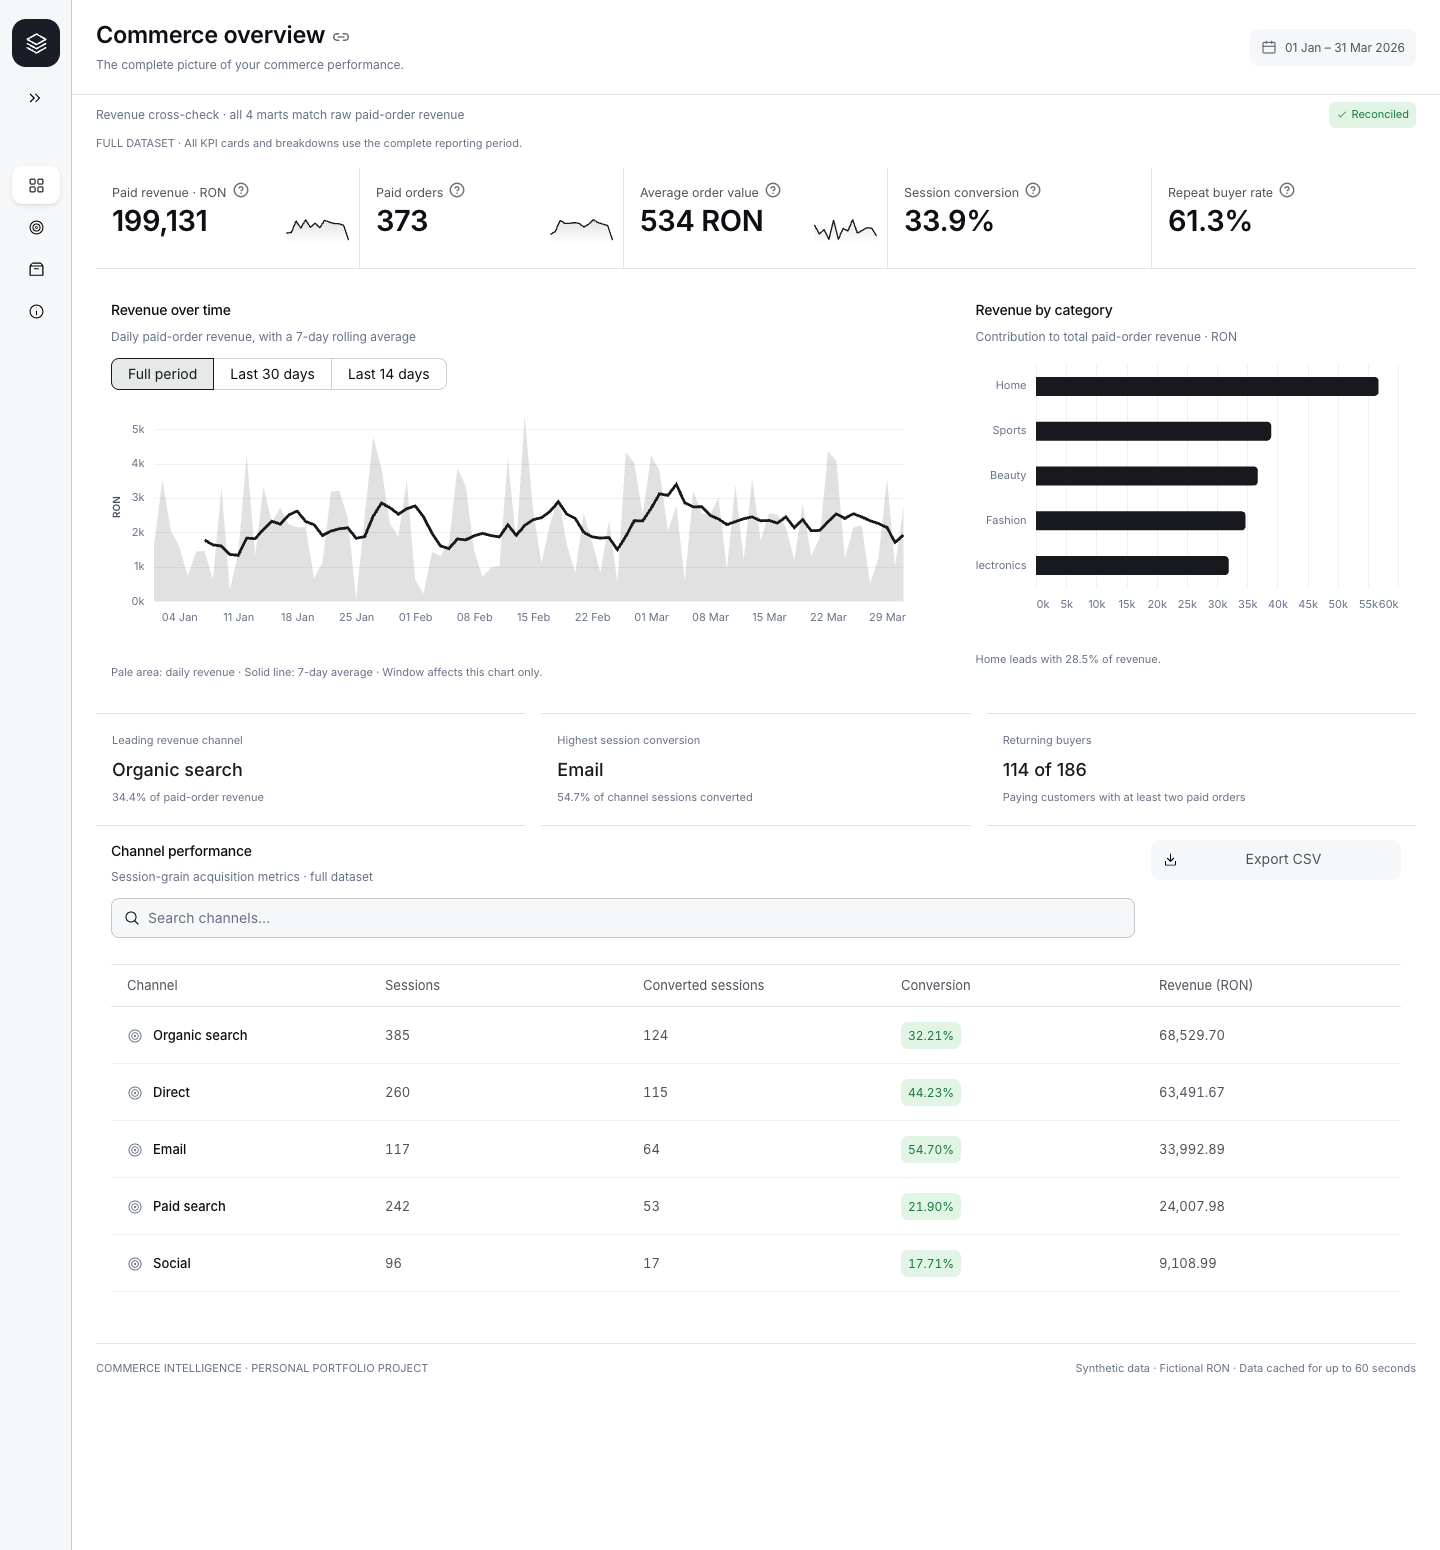
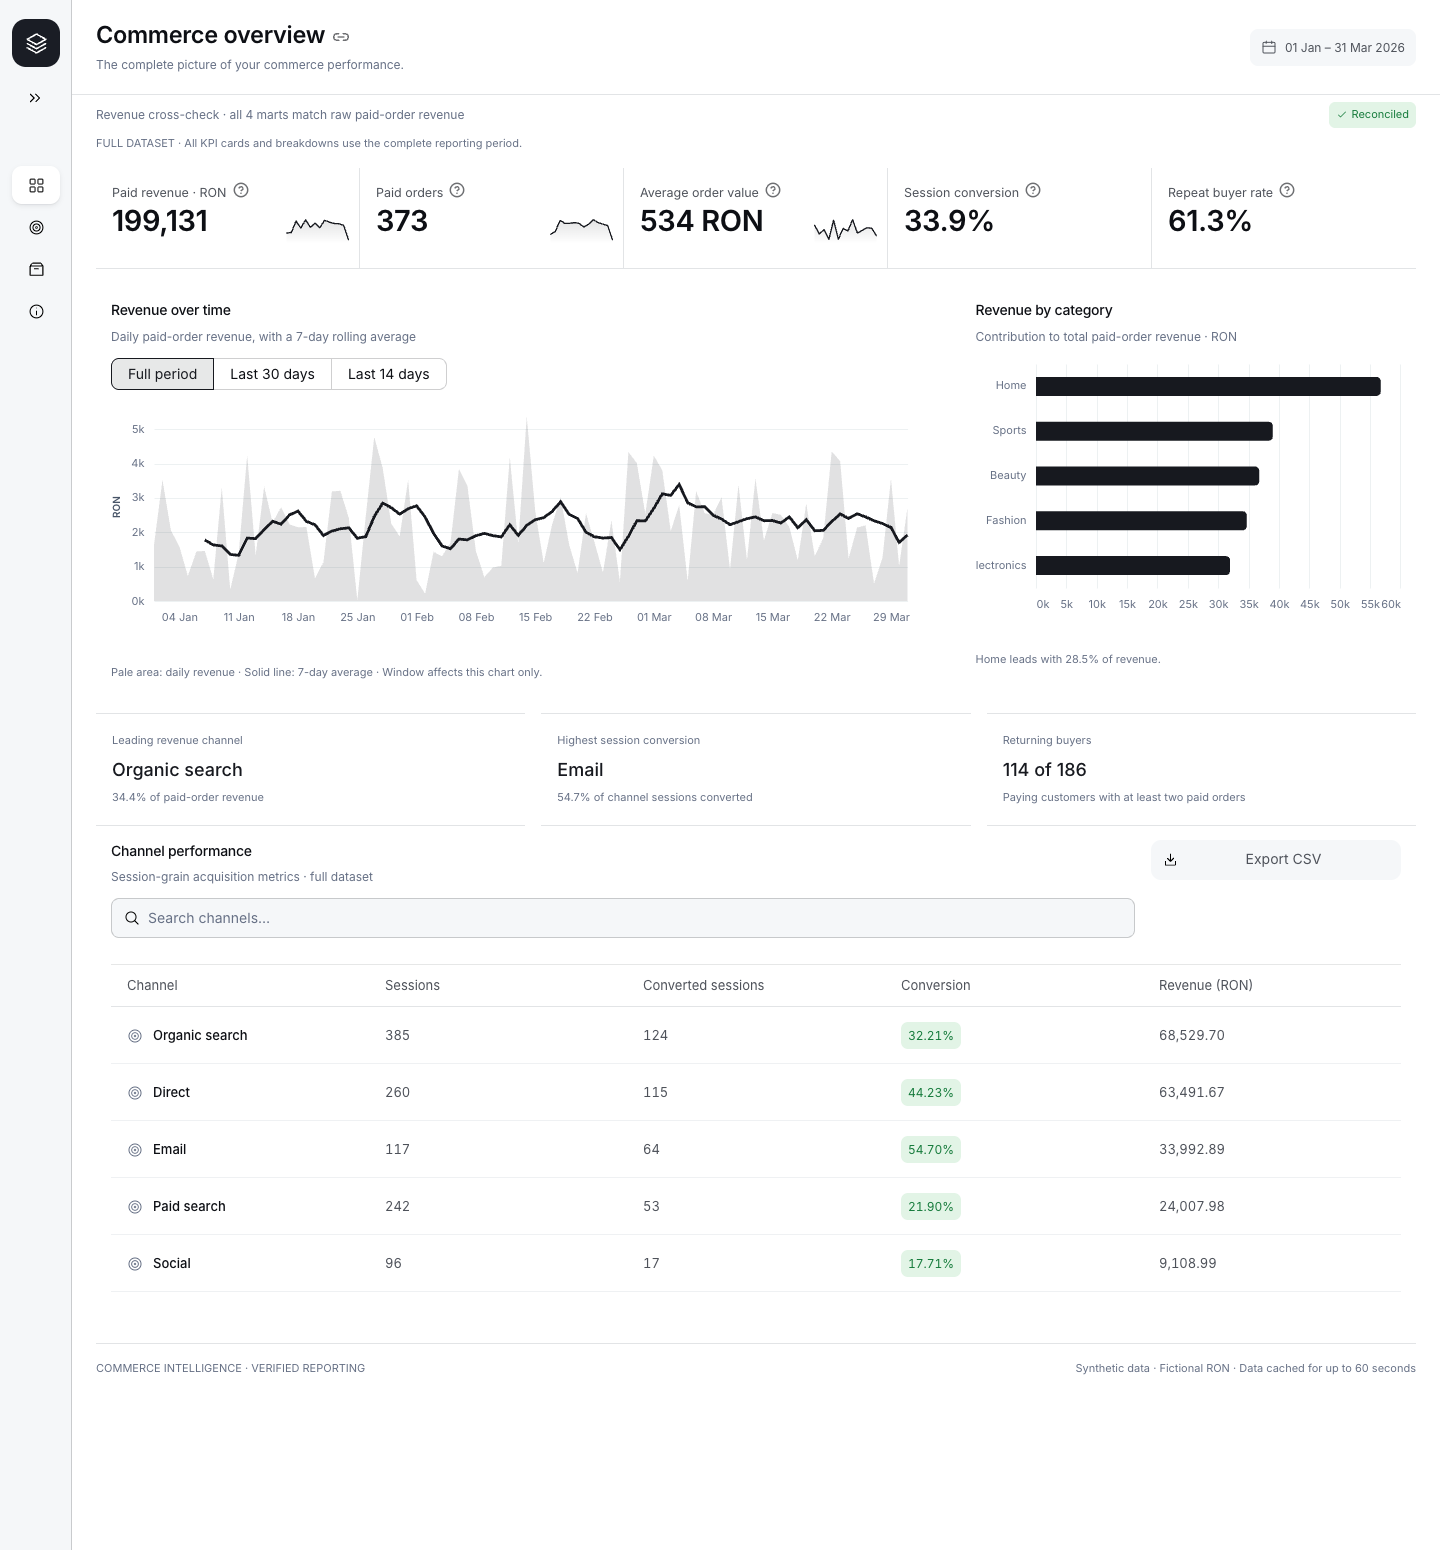
Use product-focused technical documentation and reporting labels

diff --git a/demo/index.html b/demo/index.html
@@ -1,8 +1,8 @@
 <!doctype html>
-<html lang="en"><head><meta charset="utf-8"><meta name="viewport" content="width=device-width,initial-scale=1"><meta name="description" content="Commerce Intelligence: an analytics engineering portfolio with tested Python, PostgreSQL and dbt reporting."><title>Commerce Intelligence · Portfolio demo</title><link rel="stylesheet" href="style.css"></head>
+<html lang="en"><head><meta charset="utf-8"><meta name="viewport" content="width=device-width,initial-scale=1"><meta name="description" content="Commerce Intelligence: a commerce analytics system with tested Python, PostgreSQL and dbt reporting."><title>Commerce Intelligence · Reporting demo</title><link rel="stylesheet" href="style.css"></head>
 <body>
-<aside id="sidebar"><a class="brand" href="#overview"><span class="brand-mark" data-icon="layers"></span><span class="brand-text"><strong>Commerce Studio</strong><small>Analytics workspace</small></span></a><button id="toggle" aria-label="Collapse navigation" aria-expanded="true" title="Toggle navigation"><span data-icon="collapse"></span></button><p class="section-label">WORKSPACE</p><nav id="nav" aria-label="Workspace"></nav><div class="side-context"><strong>Portfolio demo</strong><p>Synthetic commerce data<br>Fictional RON · UTC</p><a id="source" href="https://github.com/dutuvalentin16-dev/commerce-intelligence" target="_blank" rel="noopener">View source code ↗</a></div></aside>
+<aside id="sidebar"><a class="brand" href="#overview"><span class="brand-mark" data-icon="layers"></span><span class="brand-text"><strong>Commerce Studio</strong><small>Analytics workspace</small></span></a><button id="toggle" aria-label="Collapse navigation" aria-expanded="true" title="Toggle navigation"><span data-icon="collapse"></span></button><p class="section-label">WORKSPACE</p><nav id="nav" aria-label="Workspace"></nav><div class="side-context"><strong>Reporting demo</strong><p>Synthetic commerce data<br>Fictional RON · UTC</p><a id="source" href="https://github.com/dutuvalentin16-dev/commerce-intelligence" target="_blank" rel="noopener">View source code ↗</a></div></aside>
 <main><header><div><h1 id="title">Commerce overview</h1><p id="subtitle">Sales, acquisition and customer behavior.</p></div><span class="date" id="period"></span></header>
 <div class="snapshot"><span>Verified reporting snapshot · Synthetic data · No live database connection</span><span id="quality" role="status">Loading verified data…</span></div>
-<section class="kpis" id="kpis" aria-label="Full dataset key metrics"></section><div id="content" aria-live="polite"></div><footer><span>COMMERCE INTELLIGENCE · PERSONAL PORTFOLIO PROJECT</span><span id="build"></span></footer><noscript>Enable JavaScript to explore the reporting snapshot. Full source and screenshots are available on GitHub.</noscript></main>
+<section class="kpis" id="kpis" aria-label="Full dataset key metrics"></section><div id="content" aria-live="polite"></div><footer><span>COMMERCE INTELLIGENCE · VERIFIED REPORTING</span><span id="build"></span></footer><noscript>Enable JavaScript to explore the reporting snapshot. Full source and screenshots are available on GitHub.</noscript></main>
 <script src="app.js" defer></script></body></html>

diff --git a/demo/app.js b/demo/app.js
@@ -137,7 +137,7 @@ function categories() {
 }
 
 function guide() {
-    return `<section class="panel guide"><h2>How this demo works</h2><p>This public demo displays a <strong>verified, read-only snapshot</strong> exported from PostgreSQL marts after dbt and independent CSV reconciliation pass. It is not connected to a live database. The full Python/PostgreSQL/dbt/Streamlit application and reproducible Docker setup are available in the public repository.</p><p><code>Synthetic CSV → Python COPY → PostgreSQL → dbt → tested marts → reporting snapshot</code></p><h2>Metric contracts</h2><ul><li>Revenue: paid item quantity × unit price; cancelled/refunded orders add zero.</li><li>AOV: paid-order revenue / paid orders.</li><li>Conversion: sessions with at least one paid order / sessions.</li><li>Repeat buyers: customers with at least two paid orders / paying customers in this dataset.</li><li>Product margin: paid quantity × (unit price − unit cost); not net profit.</li></ul><p>All KPIs cover the full dataset. Trend windows affect their chart only. Searches filter the table and exported CSV; CSV conversion values are fractions. All data and RON amounts are fictional.</p><p>No incremental ingestion, external API source, production monitoring or anomaly detection is claimed.</p><p><a href="https://github.com/dutuvalentin16-dev/commerce-intelligence/blob/main/docs/case-study.md">Read the case study ↗</a> · <a href="https://github.com/dutuvalentin16-dev/commerce-intelligence/actions">View automated validation ↗</a></p></section>`;
+    return `<section class="panel guide"><h2>How this demo works</h2><p>This public demo displays a <strong>verified, read-only snapshot</strong> exported from PostgreSQL marts after dbt and independent CSV reconciliation pass. It is not connected to a live database. The full Python/PostgreSQL/dbt/Streamlit application and reproducible Docker setup are available in the public repository.</p><p><code>Synthetic CSV → Python COPY → PostgreSQL → dbt → tested marts → reporting snapshot</code></p><h2>Metric contracts</h2><ul><li>Revenue: paid item quantity × unit price; cancelled/refunded orders add zero.</li><li>AOV: paid-order revenue / paid orders.</li><li>Conversion: sessions with at least one paid order / sessions.</li><li>Repeat buyers: customers with at least two paid orders / paying customers in this dataset.</li><li>Product margin: paid quantity × (unit price − unit cost); not net profit.</li></ul><p>All KPIs cover the full dataset. Trend windows affect their chart only. Searches filter the table and exported CSV; CSV conversion values are fractions. All data and RON amounts are fictional.</p><p>Incremental ingestion supports ordered synthetic batches; dbt models rebuild fully. External API sources, production monitoring and anomaly detection are not implemented.</p><p><a href="https://github.com/dutuvalentin16-dev/commerce-intelligence/blob/main/docs/case-study.md">Read the case study ↗</a> · <a href="https://github.com/dutuvalentin16-dev/commerce-intelligence/actions">View automated validation ↗</a></p></section>`;
 }
 
 function csvDownload(rows, filename) {

diff --git a/dashboard/app.py b/dashboard/app.py
@@ -1,4 +1,4 @@
-"""Portfolio reporting workspace backed by tested dbt analytics marts."""
+"""Commerce reporting workspace backed by tested dbt analytics marts."""
 from __future__ import annotations
 
 import os
@@ -143,7 +143,7 @@ with st.sidebar:
         query.clear()
         st.rerun()
     st.markdown('<div class="sidebar-footer"><div class="sidebar-avatar">CI</div><div>'
-                '<strong>Portfolio workspace</strong><p>Commerce Intelligence Platform</p></div></div>', unsafe_allow_html=True)
+                '<strong>Reporting workspace</strong><p>Commerce Intelligence Platform</p></div></div>', unsafe_allow_html=True)
 
 try:
     daily = query("SELECT * FROM analytics.mart_daily_sales ORDER BY order_date")
@@ -322,7 +322,7 @@ if view == "Metric guide":
                     "not lifetime retention. Dates use UTC; revenue is grouped by order date, sessions by session date.")
         st.markdown("**Limitations:** synthetic data and fictional RON. Cancelled and refunded orders contribute zero. "
                     "No partial refund, tax or shipping accounting. Product margin is not net profit. "
-                    "No external source, incremental ingestion or anomaly detection has been implemented yet.")
+                    "Incremental ingestion supports ordered synthetic batches; dbt models rebuild fully. No external source or anomaly detection is implemented.")
 
-st.markdown('<div class="footer"><span>COMMERCE INTELLIGENCE · PERSONAL PORTFOLIO PROJECT</span>'
+st.markdown('<div class="footer"><span>COMMERCE INTELLIGENCE · VERIFIED REPORTING</span>'
             '<span>Synthetic data · Fictional RON · Data cached for up to 60 seconds</span></div>', unsafe_allow_html=True)

diff --git a/docs/case-study.md b/docs/case-study.md
@@ -3,15 +3,16 @@
 ## Business question
 
 How can sales, acquisition and customer reports agree on the same revenue definition?
-This personal project models a small fictional ecommerce business. The goal is reliable
-metric computation and verifiable delivery, using synthetic data rather than employer data.
+The system models a small fictional ecommerce business. The goal is reliable
+metric computation and verifiable delivery, using deterministic synthetic data.
 
 ## Implementation
 
 Python produces a seeded dataset and loads five CSV tables into PostgreSQL using COPY.
 All replacement loads run in one transaction. PostgreSQL constraints reject invalid keys,
-statuses, quantities and prices. Five dbt staging views normalize the sources; one
-order-grain intermediate model sums line items; four marts report daily sales, category
+statuses, quantities and prices. Five dbt staging views normalize the sources; order and order-item facts plus current
+customer/product dimensions define the star schema. An order compatibility view feeds
+four marts reporting daily sales, category
 performance, acquisition and repeat buyers. Streamlit displays these models in four views. A browser-based public demo presents a
 validated snapshot of the same marts, deployed through GitHub Pages after CI succeeds.
 
@@ -26,11 +27,12 @@ sequence executed automatically by GitHub Actions on Ubuntu.
 - **Session grain before conversion:** pre-aggregate orders per session and use a LEFT JOIN
   from sessions, retaining sessions without a purchase.
 - **Revenue contract:** paid quantity × unit price; cancelled/refunded orders contribute
-  zero. This is a simplified portfolio definition, not full accounting.
+  zero. This is a simplified revenue definition, not full accounting.
 - **Independent verification:** compare mart results with source CSV calculations; comparing
   two marts alone can miss a shared modeling error.
-- **Atomic replacement:** practical for the small demo and straightforward to test. It is
-  explicitly not incremental ingestion and would need replacement for large mutable sources.
+- **Atomic ingestion:** full replacement and incremental UPSERT run in a single transaction.
+  Each changed order includes its complete item list; removed lines are deleted, while
+  omitted orders remain untouched. Reruns are idempotent and invalid batches roll back.
 - **Restrained UI:** local SVG icons, real-data sparklines, searchable/exportable tables,
   persistent icon navigation and documented filter scope. The UI exposes metric provenance.
 
@@ -40,16 +42,17 @@ The seeded dataset yields 373 paid orders and 199,131.23 fictional RON of paid r
 AOV is 533.86 RON, session conversion is 33.91%, and 114 of 186 paying customers repeat.
 These values are fixture outputs, not commercial outcomes or measured improvements.
 
-Validation includes 32 dbt tests, 10 Python tests with both integration flags enabled,
+Validation includes 51 dbt tests, 19 Python tests with both integration flags enabled,
 independent CSV-to-mart reconciliation, and browser checks. Ingestion tests use isolated
 PostgreSQL databases and verify both complete rerun equality and rollback after a late COPY
-failure. Dashboard tests cover views, chart filters, searches and navigation state.
+failure, incremental updates, duplicate keys and invalid batches. Dashboard tests cover views, chart filters, searches and navigation state.
 
 ## Boundaries and next iteration
 
-The current model is staging plus aggregates, not a dimensional star schema. No external
-API, incremental loading, orchestration platform or anomaly detection is claimed.
-Next iterations should add documented facts/dimensions, a licensed public source and run
-history before introducing a deterministic anomaly system.
+The model uses two fact tables and two Type 1 dimensions, with documented grains and
+relationships. Ingestion supports full loads and ordered incremental synthetic batches.
+dbt facts and marts rebuild fully; dimensions do not retain historical versions. No external
+API, orchestration platform or anomaly detection is implemented. A licensed public source
+and persisted run history remain possible extensions.
 
 See [data contracts](data-model.md), [demo walkthrough](demo-guide.md). Screenshots are in [the README](../README.md).

diff --git a/docs/demo-guide.md b/docs/demo-guide.md
@@ -1,4 +1,4 @@
-# Reproducible demo and interview walkthrough
+# Reproducible demo and technical walkthrough
 
 ## Start the demo
 
@@ -13,8 +13,7 @@ make demo
 make dashboard
 ```
 
-On the original development machine use `source .venv311/bin/activate` instead of creating a
-new environment. On systems without Make use the explicit commands in the README.
+On systems without Make use the explicit commands in the README.
 `make demo` replaces the local demo raw data, builds models, runs dbt tests, reconciles metrics
 and executes all Python integration tests. It stops on an error. Dashboard: localhost:8501.
 Use `make verify` to recheck a built default demo; `make down` stops PostgreSQL and preserves
@@ -23,24 +22,24 @@ its data volume. Never point this demo workflow at a production database.
 ## Ten-minute walkthrough
 
 1. **Problem and scope (1 min):** consistent revenue and conversion across reports. Synthetic
-   ecommerce data, personal AI-assisted project, no claimed business improvement.
+   ecommerce data and reproducible fixture outputs, without measured commercial outcomes.
 2. **Architecture (2 min):** trace CSV → transactional COPY → raw constraints → staging →
-   order enrichment → marts → dashboard. Explain each layer's responsibility.
-3. **SQL (2 min):** open `int_orders_enriched.sql` and `mart_channel_performance.sql`.
+   order/item facts and customer/product dimensions → marts → dashboard. Explain each layer's responsibility.
+3. **SQL (2 min):** open `fct_orders.sql`, `int_orders_enriched.sql` and `mart_channel_performance.sql`.
    Explain grain, SUM, GROUP BY, LEFT JOIN, COALESCE and NULLIF. Identify why direct
    session-to-item joins would overcount sessions.
 4. **Reliability (2 min):** show CI and the isolated-database tests. Explain what happens
    when quantity = 0 in the last CSV: the entire transaction rolls back.
 5. **Reporting (2 min):** switch views, change the trend window, collapse to the icon rail,
    search a channel and export its CSV. Explain why the KPI cards do not change.
-6. **Trade-offs (1 min):** full reload, simplified refunds and synthetic data; describe how
-   incremental processing and dimensional models would change the implementation.
+6. **Trade-offs (1 min):** full and incremental ingestion, simplified refunds and synthetic data.
+   Explain complete item snapshots, Type 1 dimensions and full dbt rebuilds.
 
-## Before an interview
+## Inspecting correctness
 
-Practice the walkthrough yourself. Be able to calculate revenue for three orders from the
-CSV, explain each join, locate one failing test, and describe which code was AI-assisted.
-A successful automated run is implementation evidence, not a substitute for these skills.
+Calculate revenue for three orders directly from the CSV and trace the corresponding fact
+and mart rows. Inspect join cardinality, rerun an incremental batch, and verify that an
+invalid quantity rolls back the entire load. Compare source calculations with mart totals.
 
 ## Sharing
 

diff --git a/README.md b/README.md
@@ -1,6 +1,6 @@
 # Commerce Intelligence Platform
 
-**Portfolio project · Analytics Engineering · Synthetic data only**
+**Commerce analytics · Python, PostgreSQL and dbt · Synthetic data only**
 
 [![Python and dbt checks](https://github.com/dutuvalentin16-dev/commerce-intelligence/actions/workflows/ci.yml/badge.svg)](https://github.com/dutuvalentin16-dev/commerce-intelligence/actions/workflows/ci.yml)
 
@@ -12,9 +12,9 @@ also passed on Ubuntu / Python 3.11: [verified CI run](https://github.com/dutuva
 Read the [case study](docs/case-study.md), [model contracts](docs/data-model.md),
 [10-minute demo](docs/demo-guide.md).
 
-An end-to-end ecommerce analytics pipeline built to demonstrate the skills required for a junior Data Analytics / Analytics Engineer role: Python ingestion, PostgreSQL, SQL, dbt staging and aggregate transformations, automated data tests, GitHub Actions and a Streamlit dashboard.
+An end-to-end ecommerce analytics pipeline with Python ingestion, PostgreSQL, dimensional dbt models, aggregate transformations, automated data tests, GitHub Actions and a Streamlit dashboard.
 
-> **Important:** This is a learning/portfolio project, NOT production experience, NOT real business performance, and not affiliated with any employer. All customer/order/session data are synthetic. Monetary values use fictional RON.
+> All customer, order and session data are synthetic. Monetary values use fictional RON; reported results describe the generated dataset, not actual business performance.
 
 ## Online demo and local application
 
@@ -177,7 +177,7 @@ The generator ensures a single order at most per session in its sample data, but
 
 ## Current scope and next iteration
 
-This version is a verified personal portfolio demo: full and incremental ingestion, dimensional models, tested dbt
+The verified system includes: full and incremental ingestion, dimensional models, tested dbt
 reporting, independent metric reconciliation, a reporting UI and automated CI. It can
 be explored through the public demo and reproduced locally using the documented setup.
 
@@ -185,13 +185,12 @@ The next engineering milestones are a licensed public source and persisted run m
 integration, Dagster, cohort analysis and anomaly detection remain future work. None
 of these capabilities is claimed by the current demo.
 
-A passing pipeline demonstrates implementation. The author should also practice the
-[walkthrough](docs/demo-guide.md) and explain the modeling and testing decisions.
+The [walkthrough](docs/demo-guide.md) describes reproducible validation and the modeling decisions.
 
-## Development approach
+## Verification approach
 
-This personal project was developed with AI assistance. Metric contracts, independent
-source reconciliation, automated tests and CI provide inspectable implementation evidence.
+Metric contracts, independent source reconciliation, automated tests and CI provide
+inspectable evidence of data correctness.
 
 ## Security and privacy
 

diff --git a/docs/public-demo.md b/docs/public-demo.md
@@ -6,13 +6,10 @@ It does not run PostgreSQL, Python or Streamlit in the visitor browser.
 On main-branch pushes, CI generates synthetic data, loads PostgreSQL 16, runs dbt models
 and data tests, reconciles CSVs against marts, executes Python/dashboard tests, and calls
 `python -m commerce_pipeline.export_demo`. The exporter requires a fully successful
-42-result dbt build plus independent metric verification before writing `demo/data.json`.
+dbt build covering every model and test in the manifest plus independent metric verification before writing `demo/data.json`.
 GitHub Pages then deploys the demo artifact in a separate job dependent on those checks.
 Pull requests run validation but cannot publish a demo.
 
 The repository stores demo source, not a committed data snapshot. The deployed JSON
 contains synthetic aggregate marts and build provenance; visitors never receive database
 credentials. The complete local application remains the reproducible engineering demo.
-
-Private planning notes and development history are deliberately absent from this public
-repository. It began with a new history containing only reviewed project material.
